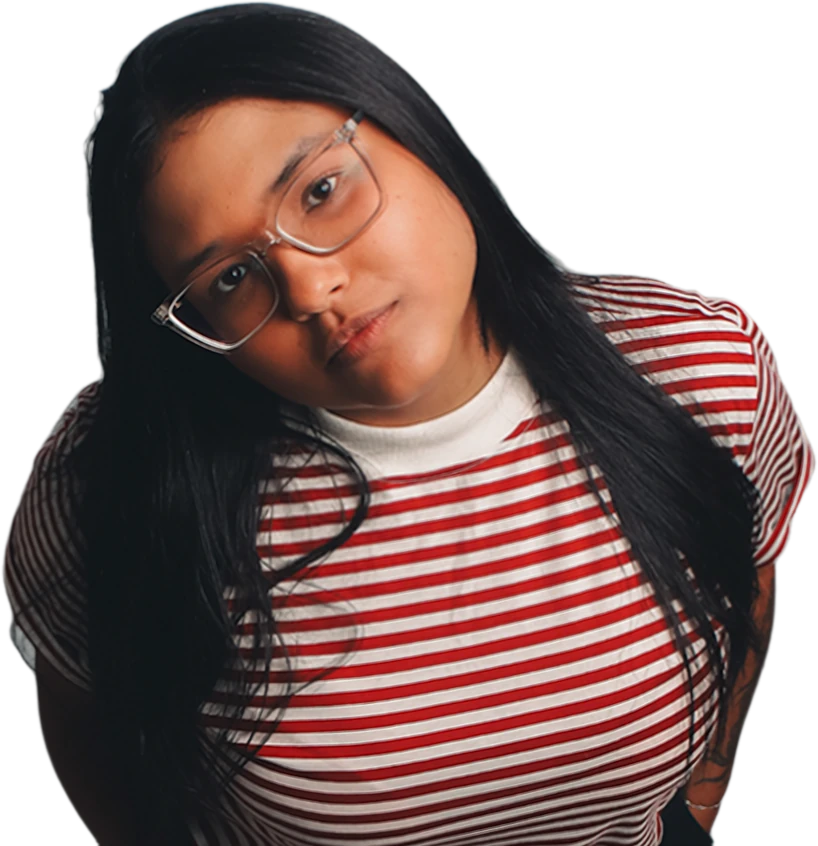
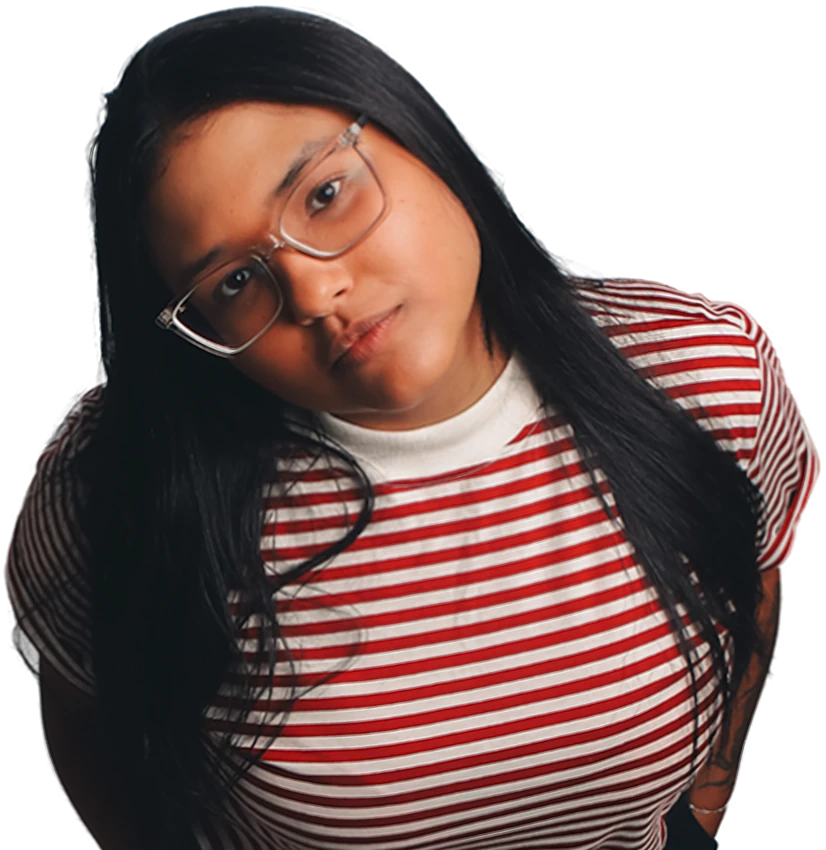
Prévia /novo: recorte da foto refeito com bordas de cabelo refinadas e sem sombra
Claude-Session: https://claude.ai/code/session_01MsCcF5nVyHMG38FPqZRKqW

diff --git a/src/pages/novo.css b/src/pages/novo.css
@@ -53,7 +53,7 @@
 }
 .cine-hero.in .word span { transform: translateY(0); }
 .cine-hero .photo { transition: opacity 1.2s ease .45s, filter 1.2s ease .45s; }
-.cine-hero:not(.in) .photo { opacity: 0; filter: blur(12px) drop-shadow(0 30px 60px rgba(0,0,0,.6)); }
+.cine-hero:not(.in) .photo { opacity: 0; filter: blur(12px); }
 .cine-hero .meta { transition: opacity .8s ease .9s, transform .8s ease .9s; }
 .cine-hero:not(.in) .meta { opacity: 0; transform: translateY(20px); }
 .cine-hero .glow { will-change: transform; inset: -5%; }
@@ -64,7 +64,6 @@
 .cine-hero .photo {
   position: absolute; left: 50%; bottom: 0; z-index: 1;
   height: min(72svh, 760px); width: auto; max-width: none; transform: translateX(-50%);
-  filter: drop-shadow(0 30px 60px rgba(0, 0, 0, 0.6));
   -webkit-mask-image: linear-gradient(180deg, #000 78%, transparent 100%);
   mask-image: linear-gradient(180deg, #000 78%, transparent 100%);
   will-change: transform;
